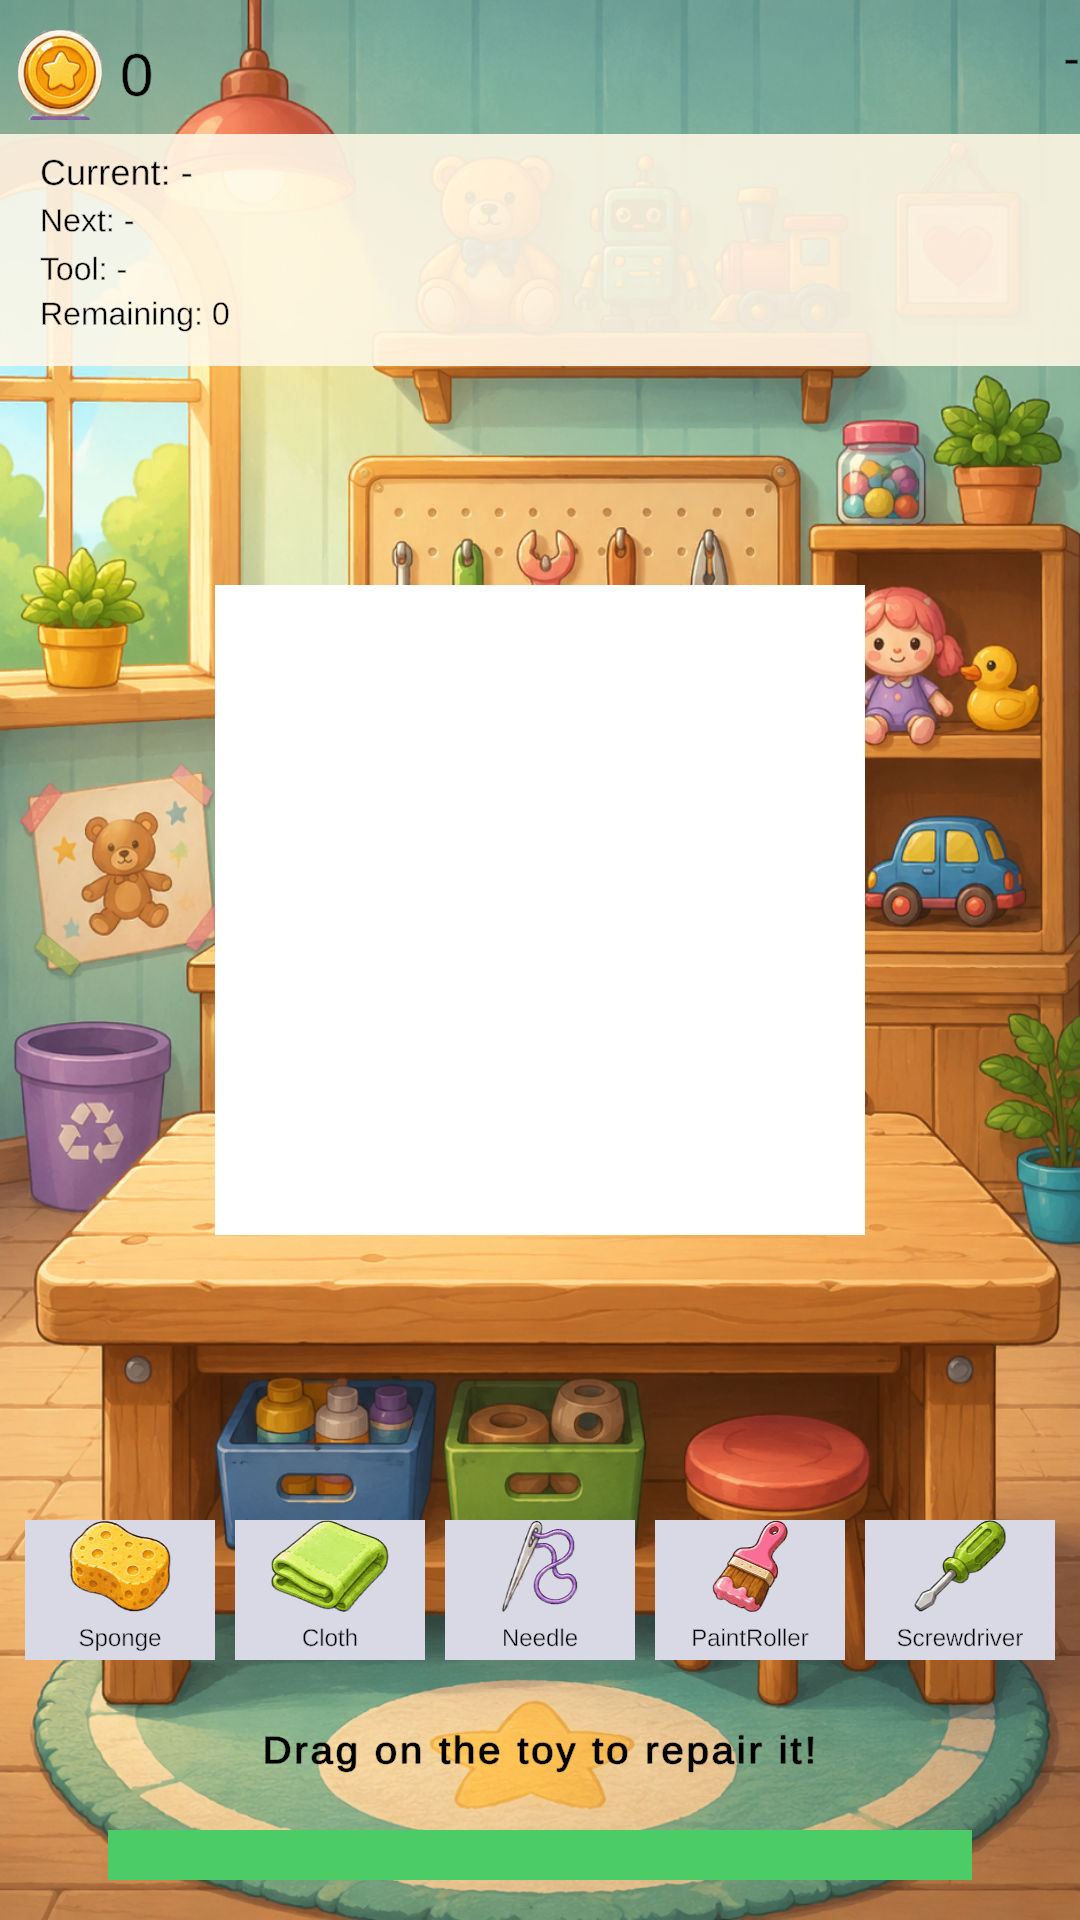
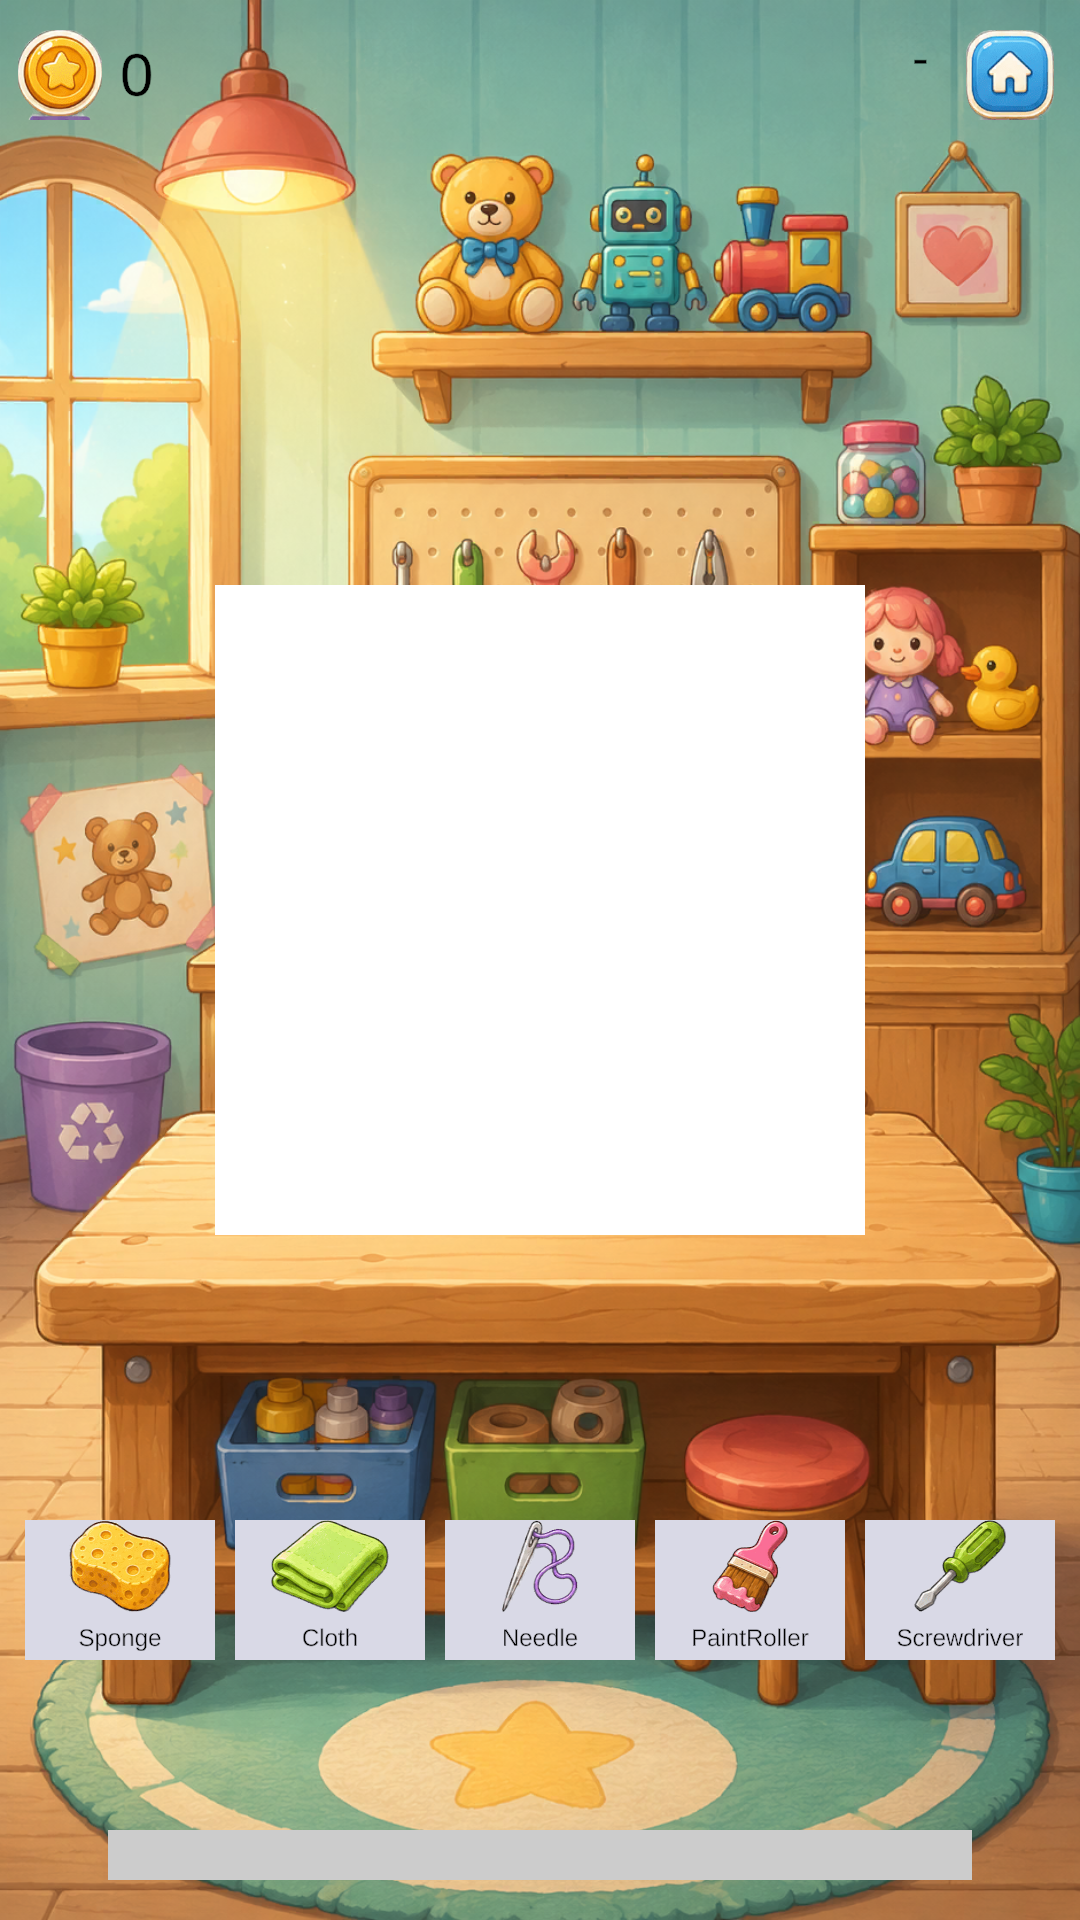
Minor updates

Changed region(s): [[0.0, 0.0, 1.0, 0.1875], [0.0917, 0.9062, 0.9167, 1.0]]

diff --git a/Assets/Scripts/UI/RepairHUDView.cs b/Assets/Scripts/UI/RepairHUDView.cs
@@ -12,6 +12,7 @@ namespace ToyRepairShop.UI
     public sealed class RepairHUDView : MonoBehaviour
     {
         [SerializeField] private TMP_Text _toyNameText;
+        [SerializeField] private TMP_Text _currentStepText;
         [SerializeField] private ProgressBarView _progressBarView;
 
         [SerializeField, Tooltip("Contextual 'what to do next' hint. Left blank until a repair session actually starts.")]
@@ -22,6 +23,14 @@ namespace ToyRepairShop.UI
             if (_toyNameText != null)
             {
                 _toyNameText.text = toyName;
+            }
+        }
+
+        public void SetCurrentStep(string stepName)
+        {
+            if (_currentStepText != null)
+            {
+                _currentStepText.text = string.IsNullOrEmpty(stepName) ? string.Empty : $"Current Step: {stepName}";
             }
         }
 

diff --git a/Assets/Scripts/Managers/WorkshopController.cs b/Assets/Scripts/Managers/WorkshopController.cs
@@ -151,6 +151,7 @@ namespace ToyRepairShop.Managers
 
         private void HandleRepairStepStarted(Gameplay.Models.RepairStep step)
         {
+            _repairHUD.SetCurrentStep(step.Data.StepName);
             _repairHUD.SetProgress(ComputeOverallProgress(0f));
             _repairHUD.SetInstruction("Choose the right tool below!");
         }
@@ -199,6 +200,7 @@ namespace ToyRepairShop.Managers
         {
             _repairHUD.SetProgressVisible(false);
             _repairHUD.SetInstruction(string.Empty);
+            _repairHUD.SetCurrentStep(string.Empty);
             _toyView.PlayRepairedTransition();
             _coinsDisplayView.AddCoins(toy.Data.RewardCoins);
             AudioManager.Instance?.PlaySFX(_repairCompleteSfx);
